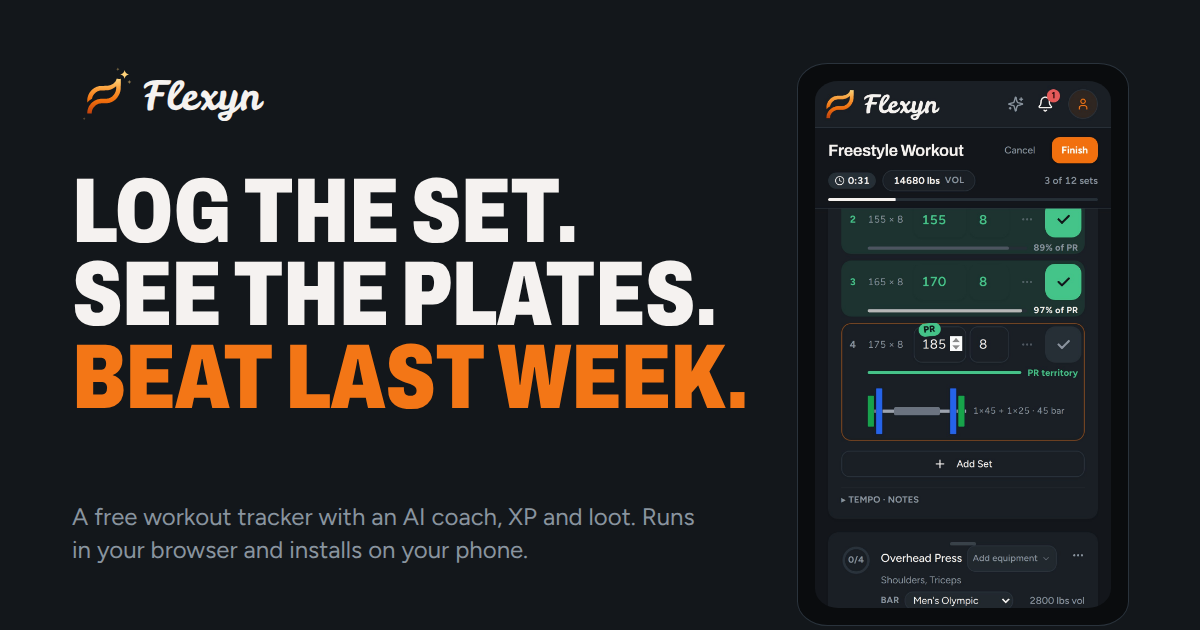
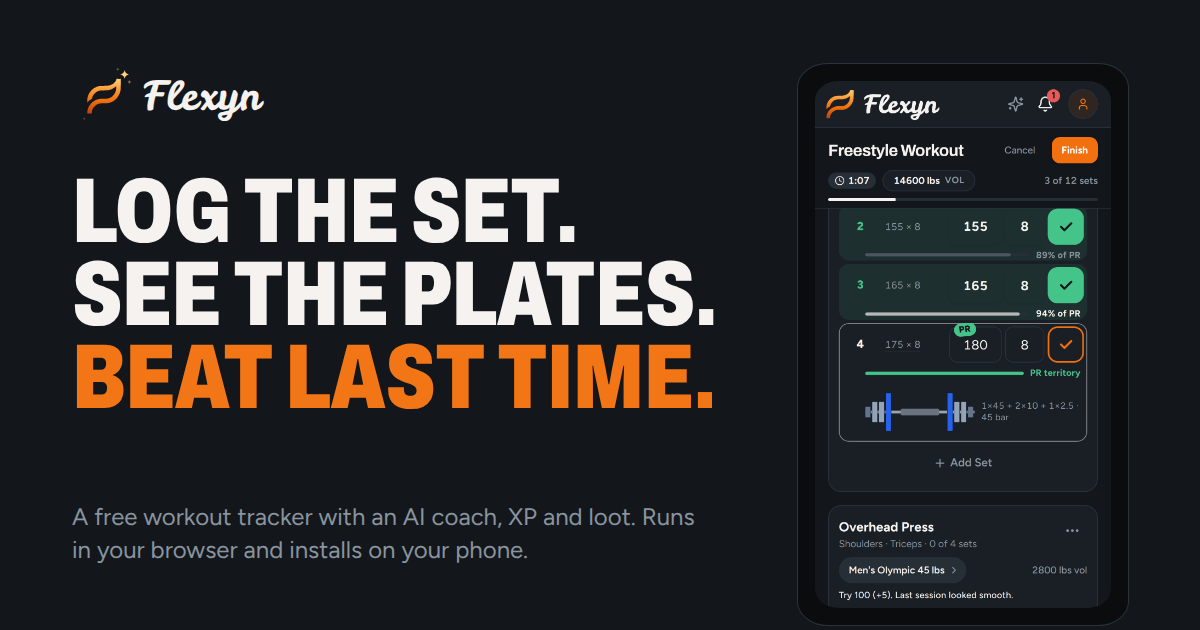
Share card: "Beat last time", on the current exercise card (#175)
* Share card: "Beat last time", on the current exercise card

The link-preview image said "Beat last week", but the logger compares
each set with your last session, which may not be last week. It also
showed the exercise card from before the 2026-09-27 consolidation.
Re-rendered from the live app.

Requested-by: Kegan Bergeron (KeganBerg)
Claude-Session: https://claude.ai/code/session_01Vr7RwCvXUUJDH4GtA413Zs

* Coach evidence test: use a date inside the history window, not a literal

benchLog defaulted to '2026-07-30', and the generator only reads the
last 60 days of logs. On 2026-09-28 that date fell out of the window,
so five tests went red on main with no code change. The staged log now
dates itself three days before today.

Requested-by: Kegan Bergeron (KeganBerg)
Claude-Session: https://claude.ai/code/session_01Vr7RwCvXUUJDH4GtA413Zs

---------

Changed region(s): [[0.7092, 0.3317, 0.925, 0.754], [0.4008, 0.5429, 0.6167, 0.6635], [0.6783, 0.7841, 0.8942, 0.9651]]

diff --git a/src/lib/aiCoach/__tests__/evidence.test.js b/src/lib/aiCoach/__tests__/evidence.test.js
@@ -11,8 +11,17 @@ import { buildCoachPlan, withEditedWorkout, evidenceForExercises } from '../plan
 const PROFILE = { weight_lbs: 190, gender: 'male', birthday: '1995-01-01' };
 const USER = { id: 'u1', email: 'a@b.c' };
 
+// A date inside the generator's 60-day history window, computed from today.
+// This was the literal '2026-07-30', which fell out of the window on
+// 2026-09-28 and turned five tests red with no code change.
+const RECENT = (() => {
+  const d = new Date();
+  d.setDate(d.getDate() - 3);
+  return `${d.getFullYear()}-${String(d.getMonth() + 1).padStart(2, '0')}-${String(d.getDate()).padStart(2, '0')}`;
+})();
+
 /** A log that gives Bench Press a real top set the generator can seed from. */
-const benchLog = (date = '2026-07-30') => ({
+const benchLog = (date = RECENT) => ({
   date,
   exercises: [{ name: 'Bench Press', sets: [{ weight: 185, reps: 5 }, { weight: 175, reps: 8 }] }],
 });
@@ -40,10 +49,10 @@ describe('evidence reports what was actually read', () => {
   it('counts only logs inside the history window', async () => {
     // One recent, one two years old. Claiming 2 would be a false statement
     // about data the generator never used.
-    logs.value = [benchLog('2026-07-30'), benchLog('2024-01-01')];
+    logs.value = [benchLog(RECENT), benchLog('2024-01-01')];
     const w = await generateWorkout({ user: USER });
     expect(w.evidence.logsRead).toBe(1);
-    expect(w.evidence.latestLogDate).toBe('2026-07-30');
+    expect(w.evidence.latestLogDate).toBe(RECENT);
     expect(w.evidence.historyWindowDays).toBe(60);
   });
 
